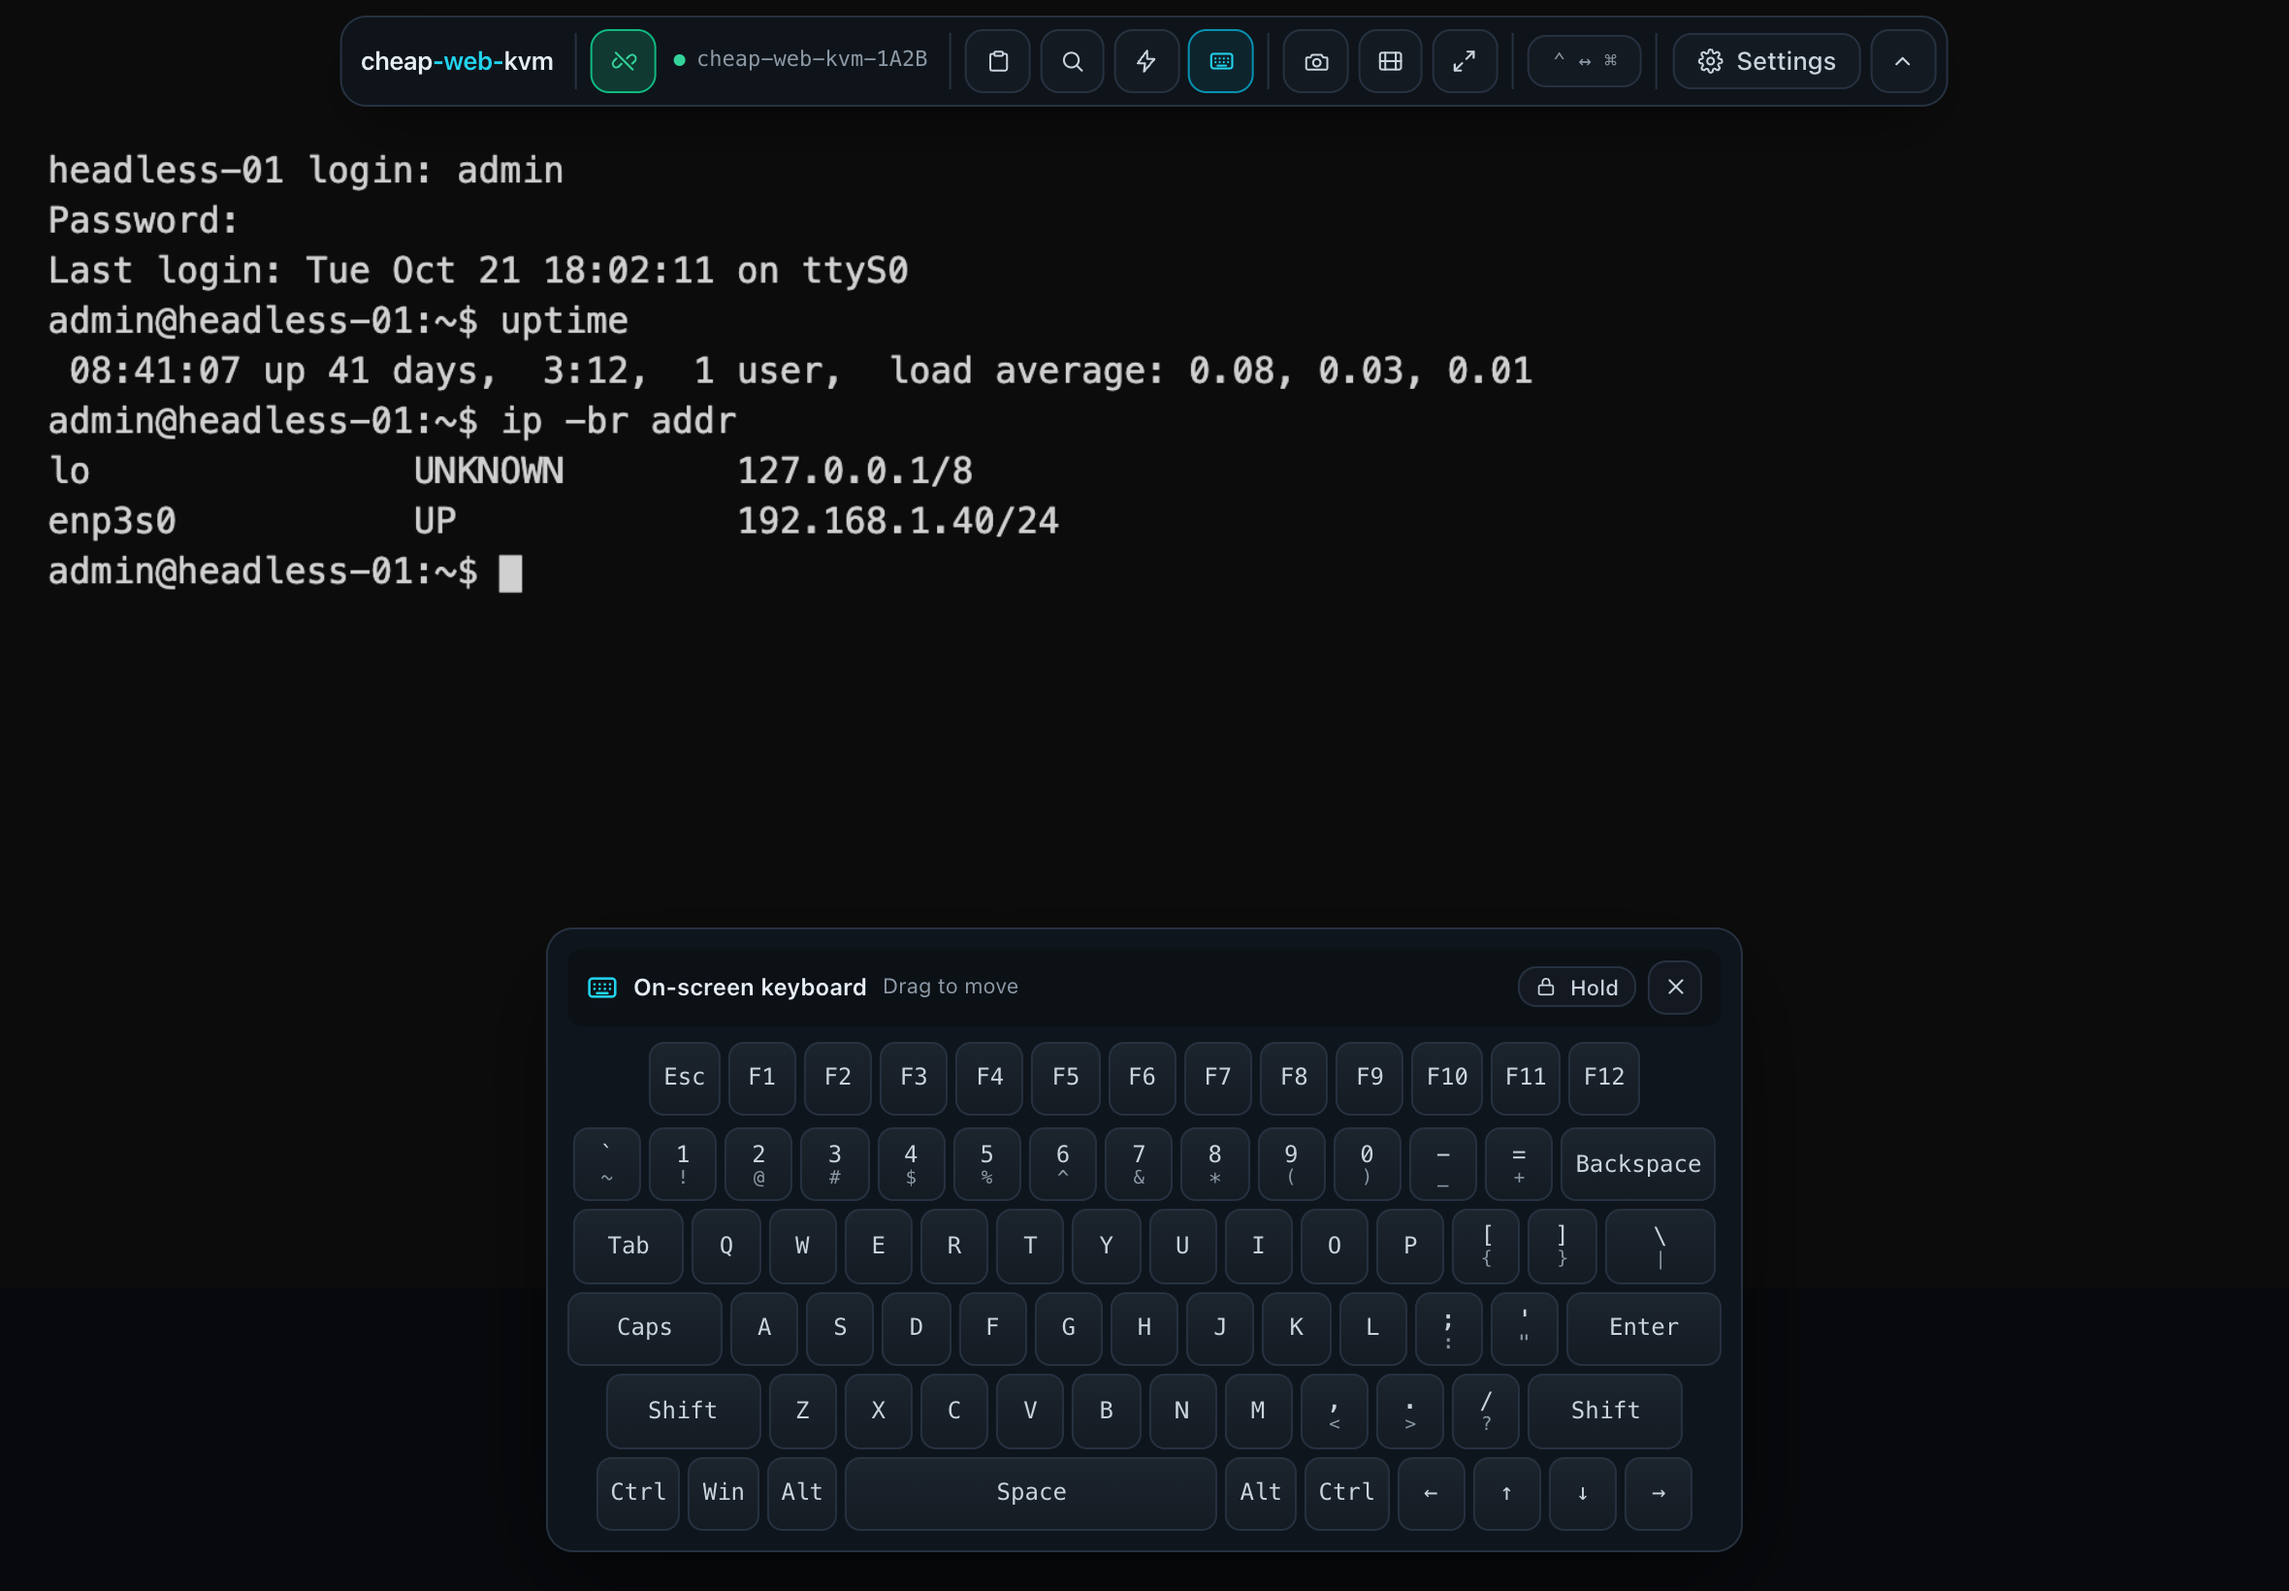
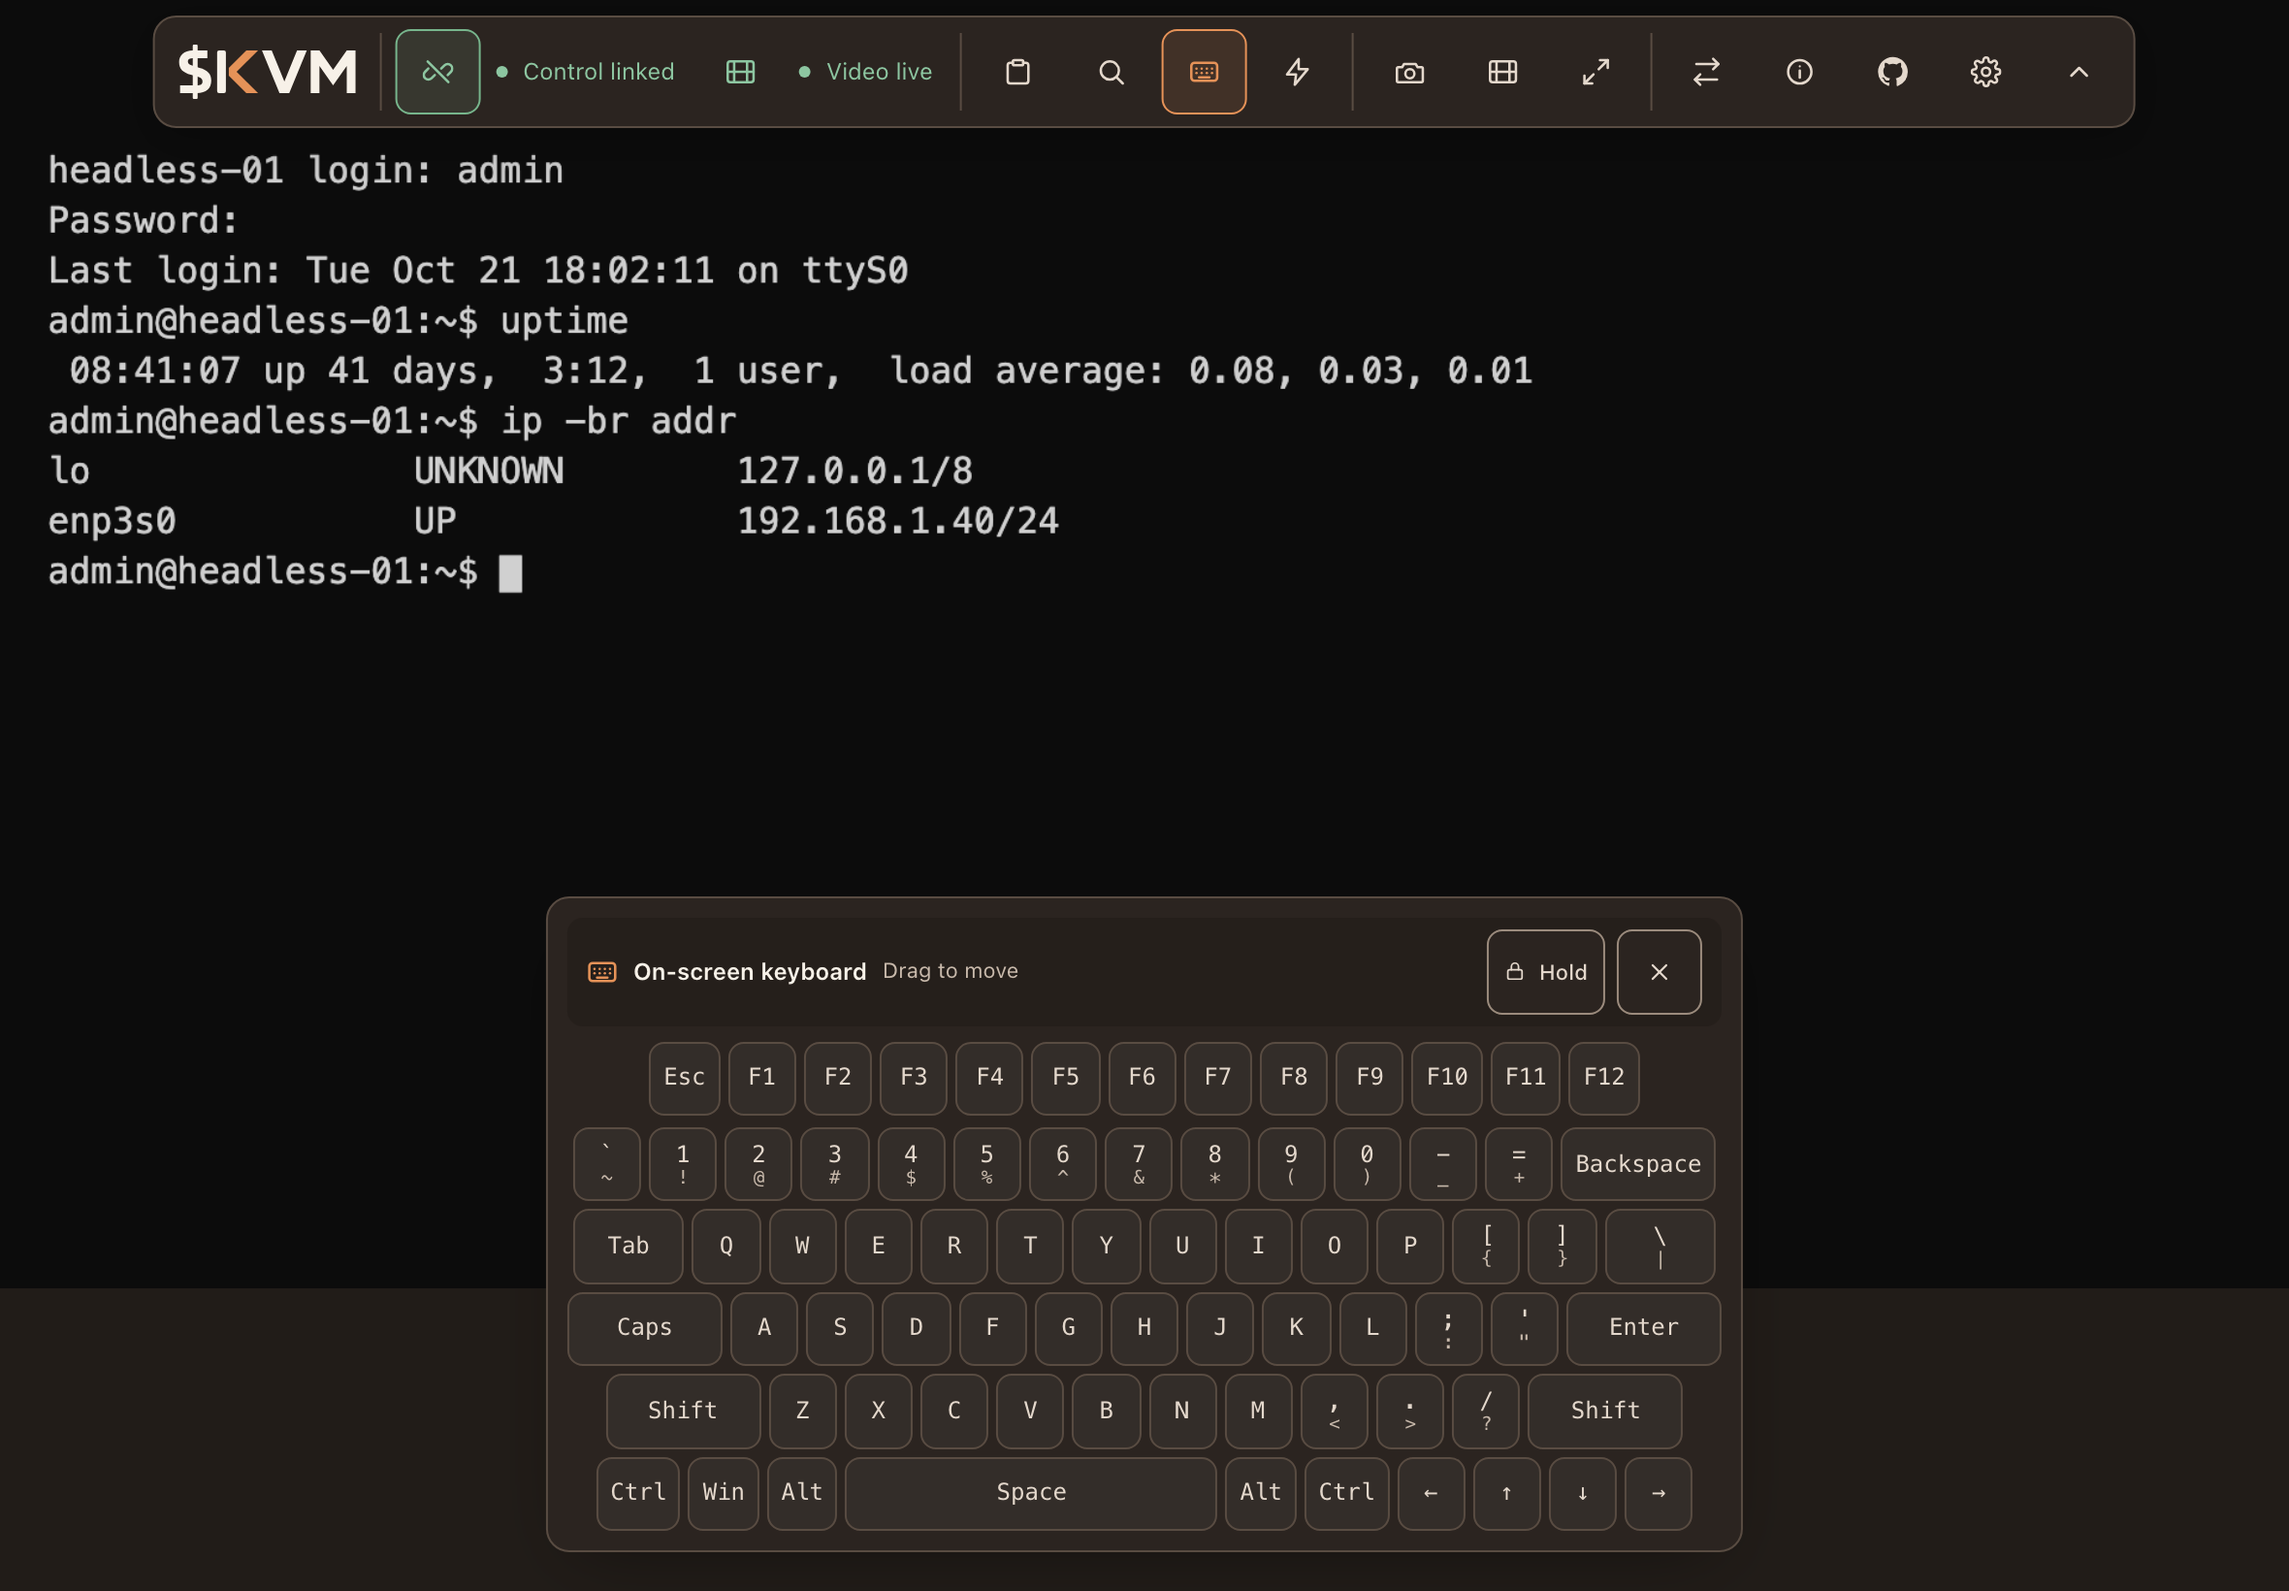
Refresh simulated README screenshots for the new theme

diff --git a/README.md b/README.md
@@ -6,7 +6,7 @@ No drivers or software to install.
 
 ![The KVM in a desktop browser](docs/images/kvm.png)
 
-_Screenshots use a simulated target display._
+_Screenshots use a simulated target display and Bluetooth KVM connection._
 
 Based on [tobychui/DezKVM-Go](https://github.com/tobychui/DezKVM-Go). The web UI
 (paste box, on-screen keyboard, hotkeys and macros, screen recorder, OCR copy
